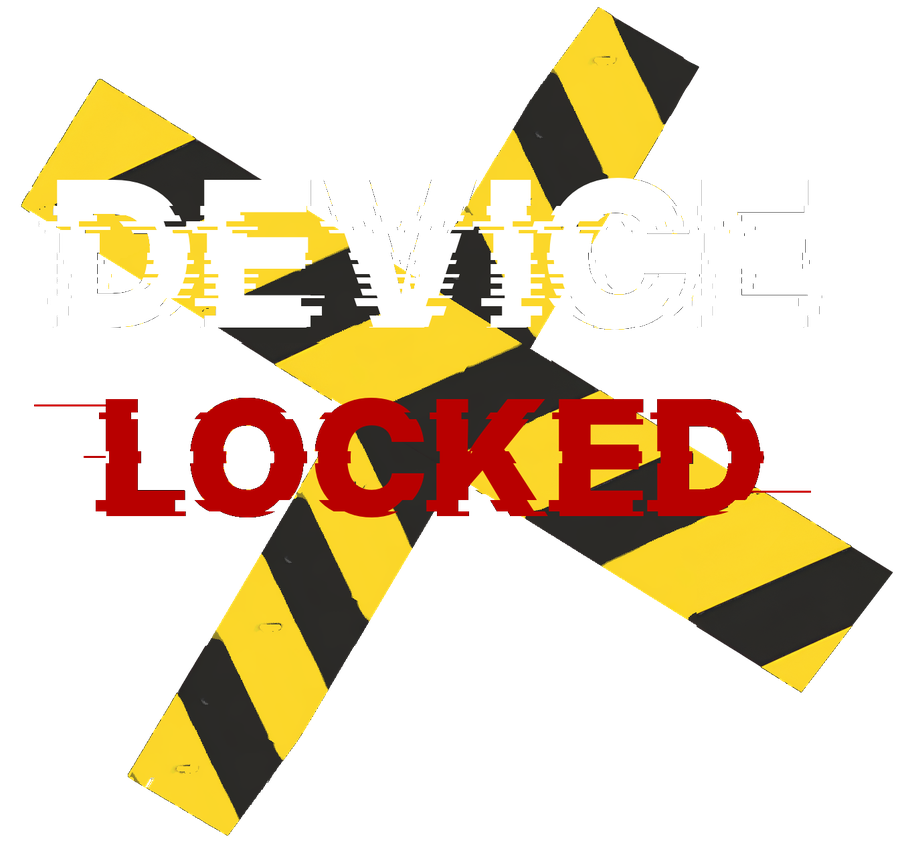
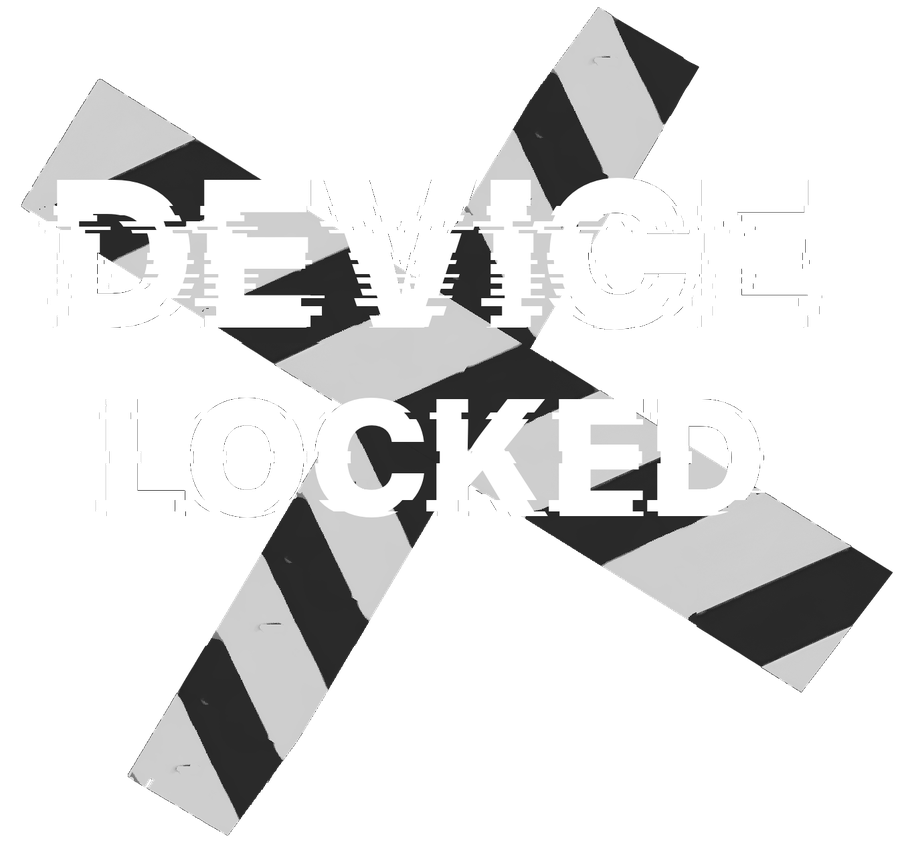
Update #194: the DEVICE LOCKED sign in black and white, no colour
Claude-Session: https://claude.ai/code/session_01XLn6iqczBhEJDyNN2zXKam

diff --git a/CLAUDE.md b/CLAUDE.md
@@ -62,7 +62,7 @@
 - **THE OWNER'S PHONE = PREMIUM · ONLY SYSTEM (owner, 4 Nov 2026: 'Set my phone to premium only system please')**: the official account's plan is always Premium with no payment and no end date (msg-worker subView: `officialPlan`, until 0 - 'Your plan: Premium · Only system · official account', no Cancel plan button); the server set the official account's option to Only system once (meta owner_premium_only), and the app turns Only system on by itself from that (subApplyMode - Android's own 'set as Home app' question needs the owner's tap). **The owner's phone STAYS on Only system - never Second system (owner, 4 Nov 2026: 'I don't want to switch to second system I'm never switching to second system. I want to be on only system')**: the official account's option is always Only system on the server (subView defaults to 'only', sub/mode only ever saves 'only', meta owner_premium_only = 2 re-set it); never switch the owner to Second system or suggest it. **The Home-app question must come from a screen (owner, 4 Nov 2026: 'Nothing is happening')**: Android's 'make Lockedintool your Home app' request (RoleManager ROLE_HOME) only shows when started with startActivityForResult from a visible activity - asked from the background it never appeared, so the phone had Only system's flag on but kept its old launcher. Now OverlayService.askHomeRole sends it through the see-through SystemScreenActivity, and whenever Only system is on but Lockedintool isn't the Home app (systemModeState's 3rd field home / nohome), the Pages ask again once each time they start (sysHomeCheck) and tapping Only system asks straight away.
 - **Two options on the Subscription page (owner's picture)**: two option buttons right under LOCKED IN TOOL (where the status line was; the status line sits under them) - **Second system** (Lockedintool works alongside your phone, apps stay) | **Only system** (SUB_OPTIONS, `.sub-opts`). **No background on them (owner)** and NOTHING is chosen at first (a pre-chosen one was confusing) - the chosen one gets a white outline + ✓ (Only system shows chosen while it's on). **No plan can be bought without choosing an option (owner)**: subBuy says 'Choose Second system or Only system first'. The cursor over one shows what it is (`.sub-opt-tip`, hover only); on a phone tapping one shows its details in the page (subOptionScreen) with ✕ and a ✓ at the bottom - ✓ chooses it and the page goes back to the plans (state.sub.mode / optView). Then you choose a plan: the purchase is made UNDER that option and plan (/v1/sub/buy {plan, mode} -> payments.mode -> on paid subs.mode; the waiting card and 'Your plan: Basic · Only system · paid until' show it). A plan paid under Only system turns it on (subApplyMode, also on every sub refresh). The owner (full access) or someone with an active plan who picks Only system gets the confirm sheet straight away (sysModeAsk). Second system can't be picked while Only system is on (log out / delete account). **Only system = Lockedintool as your system** (sysModeAsk -> confirm sheet -> StoryNative.systemModeSet(true); needs signed in + Lockedintool system actions on) -> **the DASHBOARD is your home screen**: whenever you press home or leave an app you land back on the Dashboard (owner: 'the Dashboard becomes your home screen; you only stay inside Lockedintool - never write acts as your apps'). **YOUR APPS ALL STILL WORK (owner, 28 Oct 2026: 'apps on dashboard for only system are not available please fix that that was never a change' -> chose 'Let apps fully work') - this REPLACES the old 'NO other app at all'**: the Apps button, the Apps screen, app pages, Open <platform>, sharing to apps and recents all work exactly like normal. **NO Apps | Lockedintool switch in Only system (owner, 27 Oct 2026: 'when lockedintool is set to be the only system the feature to be able to switch with the bottom button will not be available'; 4 Nov 2026, after tapping Apps left a frozen picture of the old home screen: 'Thes still the option to switch to apps. But I cant swipe to anywhere')**: tapping the bottom bar does nothing in Only system (addBar: showPicker only when !SystemMode.on); the phone's own gestures there are untouched; apps open from the Dashboard's Apps button and the phone's Recents. LockedintoolHome is BLACK, never see-through, so the old launcher can never show frozen behind it. **Its WINDOW is solid too (owner, 4 Nov 2026, a video: 'See the home screen wallpaper still shows up, I can still see it for a moment. That's a fix that's needed this needs to be smooth. Lockedintool needs to be smooth - fast, no lag, no delays at all')**: LockedintoolHome used the see-through Theme.Story.Clear, so while the phone switched to it (closing an app, Home) the phone's wallpaper showed for a moment; it now has its own opaque Theme.Story.Home (black, windowIsTranslucent false, windowShowWallpaper false, no animation), so the switch shows Lockedintool (the Dashboard drawn inside it), never the wallpaper. **Lockedintool stays in the BACK of the phone's floating windows (owner, 4 Nov 2026, a Samsung pop-up window over plain black: 'Lockedintool is supposed to be in the back')**: the Pages float over every app, so a floating window can only show in front of the Home screen - when the Pages step aside in Only system, OverlayService.snapHome draws a picture of what they showed (homeShot) and LockedintoolHome shows it exactly where the Pages were; a tap on it (outside the floating window) brings the live Dashboard back. **Opening Lockedintool always shows the Dashboard (owner, 4 Nov 2026: 'everytime i open lockedintool that black screen pops up and I need to swipe the bottom button up to see the dashboard')**: on One UI the home-screen app (which draws Recents) flashes up while the phone goes Home to Lockedintool, so recentsShown stepped the Dashboard aside and left LockedintoolHome's black screen. Now when LockedintoolHome really has the screen's focus (onWindowFocusChanged -> OverlayService.homeFocused) within 3 s of such a step aside - or it has no picture to show - and Recents isn't really up, the Dashboard comes straight back (also re-checked 0.5 / 1.2 s after the step aside). Real Recents and floating windows (which take the focus) are untouched. **Floating pop-ups and their bubbles stay ON TOP of the Dashboard (owner, 4 Nov 2026, screenshots: the pink pop-up bubble showed over other apps but vanished on the Dashboard; asked which problem, answered '1')**: an overlay window is drawn above every app window, so in Only system the Pages' window lives INSIDE LockedintoolHome's own window while it is on screen (OverlayService.homeAttach: removed from the overlay and re-added as a TYPE_APPLICATION_PANEL of the Home's window, which is edge to edge) - the phone's pop-ups, bubbles, Recents and gestures then sit above the Dashboard like over any home screen. homeStopped (Home out of sight: an app, Recents) closes Pages that were showing in it (never left 'open' behind an app); setShown moves them back to the overlay first when they must show while the Home is out of sight (Station 3's Rows over an app, a widget); homeGone / Only system off moves them back for good (restackOver puts Profile / Station 3 / the dial pad back above them). Inside Home the phone's Recents just covers them (no step aside). Station 3's own windows (Profile, Messages, the dial pad) are still overlays. **Typing works inside the Home (owner, 4 Nov 2026, editing the Dashboard's quote with no keyboard)**: setTyping used to stop when lowerPages refused (it refuses inside the Home); now Pages shown inside the Home just take the focus and ask for the keyboard, which shows above the Home's window. **No black Home on the way to the Dashboard (owner, 4 Nov 2026: 'everytime this black screen shows up everytime my phone goes to the dashboard it pop ups')**: Pages hidden while they live in the Home stay DRAWN there (alpha 1, not touchable / focusable - setShown; not with Lockedintool security on), homeStopped switches what's kept there to the Dashboard, and the 5-minute age reload is skipped for them (a reload showed the black Home) - so going Home shows the Dashboard at once; homeDetach makes a parked one see-through before it leaves the Home. **Swiping up from an app back to Lockedintool has no separation / delay (owner, 4 Nov 2026: 'when I swipe up to close the app I'm on to lockedintool ... there is a separation, a slight delay and lag')**: when the Home goes out of sight, homeStopped switches the parked Pages to the Dashboard and lets them draw that frame once (then they rest again), and LockedintoolHome.onResume / onNewIntent call OverlayService.homeShowFast first: the parked Dashboard just goes live in the same frame the Home shows - no page redraw, no waiting for a frame, no queue hop (parkedDash; not while reloading, loading, with Lockedintool security, pickers / Create / an app opening - then the normal way). **No black after the swipe (owner's video, 4 Nov 2026: ~0.5 s black before the Dashboard)**: Pages parked inside the Home no longer rest (no WebView.onPause - a resting page needed ~0.5 s to draw again; out of sight they count as hidden anyway), and until the parked page has drawn again (homeWake from LockedintoolHome.onStart -> postVisualStateCallback, 350 ms at most) it stays see-through over the Home's picture, which is now always the DASHBOARD (snapHome only while dashUp). The wallpaper seen during the swipe itself is the phone's own animation (One UI shows the phone's wallpaper while an app shrinks away to a Home app that isn't Samsung's) - Lockedintool never changes the phone's wallpaper; the owner can set it in the phone's settings. **No black while the Pages (re)load inside the Home (owner's video, 4 Nov 2026: after Recents > Close all, Lockedintool's Home was black for ~6 s before the Dashboard)**: inside the Home a Pages window that is loading stays see-through (Pane.loading, set in onPageStarted, cleared by pagesDrawn after onPageFinished's postVisualStateCallback - 1.5 s / 8 s at most), so the Home's picture of Lockedintool shows meanwhile; the picture is also saved on the phone (filesDir/home_shot.jpg + pref home_shot_top) so it's there even right after Android restarted Lockedintool. **The Dashboard comes back by itself EVERY time the Home shows (owner, 4 Nov 2026: 'everytime i close an app ... all I see is a black screen then I have to tap the screen to see the dashboard - that's a fix that is needed')**: homeFocused no longer waits for a 3-s window after a step aside - whenever LockedintoolHome gets the screen's focus with the Pages away (and Recents isn't up, no picker / Create / call, not Lockedintool security), the Dashboard shows; a page that loaded but never reported drawn is shown anyway (web.progress 100). **The Dashboard's bar never stays over an app (owner, 4 Nov 2026, a screenshot: the Messages / Profile bar over the Claude app - 'What's happening?')**: homeFocused only brings the Dashboard back while LockedintoolHome is really visible AND has the screen's focus, and foregroundChanged closes Pages that are 'shown' inside the Home when another app comes to the front (they stay drawn there), so Station 3's Dashboard bar is never held over an app. **After an update you land back on Lockedintool, not the phone's old home screen (owner, same day: 'the lockedintool app close and I was on my phones original apps')**: Android shows the old launcher while Lockedintool is being replaced; Updater.markGoHome remembers (upd_go_home) when Lockedintool's Home was on screen or you installed it yourself, and BootReceiver (MY_PACKAGE_REPLACED) opens Lockedintool's Home again in Only system with the screen on. **LOCKEDINTOOL IS THE PHONE'S HOME APP (owner, 28 Oct 2026: 'lockedintool becomes your home screen thats what i meant ... apps should still work ... I dont exit lockedintool'; then 'the bottom button only works for apps that where opened inside lockedintool ... not working for the whole phone as normal' -> chose 'Make it my real Home app')**: Only system makes Lockedintool the phone's actual HOME app (LockedintoolHome.kt, a transparent HOME activity -> OverlayService.openPages('dashboard'); manifest HOME/DEFAULT intent-filter). So the SYSTEM takes home -> the Dashboard, and the phone's OWN nav (recents, app-switching, the whole phone) works 100% normally - NOT the old overlay trick that fought the phone's nav (that's why the bottom nav only half-worked). **How it's built**: turning Only system on (StoryBridge.systemModeSet(true)) calls askHomeApp() -> Android's own 'set as Home app' prompt (RoleManager.ROLE_HOME on Android 10+, else Settings.ACTION_HOME_SETTINGS); once Lockedintool is the home, homePkg() == our package, so nothing is redirected. **OverlayService.systemEnforce() is now a NO-OP** (the Home app handles home; the old redirect is gone). SystemMode.refuses() always returns false (nothing is blocked). addBar / showPicker / dashBandYPx no longer special-case Only system (the bar + switch + line are there). index.html: sysOn() no longer hides apps anywhere - ONLY stops turning on Only use widgets while Only system is on. The owner switches their normal launcher back any time (Android's Home-app setting), so it is never a trap; Only system turns off by logging out / deleting the account. Always still work: calls (default dialer, telecom / in-call), emergency, SystemUI (lock screen, panel), Android's installer + permission questions, the phone's file / photo pickers, Play services, and whatever Lockedintool itself opens for its own features (every startActivity in OverlayService grants the app it opens - camera, gallery, bank page, documents, permission switches). **Turns off ONLY by logging out or deleting your account (owner)** - litSignedOut / litAccountGone -> systemModeSet(false, 'LOGGED-OUT'); wipeAll clears it; the setup screen's Stop Lockedintool refuses while it's on and its Settings buttons only open while system actions are off. Pref 'story' system_mode. Terms of Service section 'Lockedintool as your system'.
 - **LOCKEDINTOOL'S LOCK SCREEN - ONLY SYSTEM (owner, 5 Nov 2026: 'I want the same pop-up to be my lock screen, so when Lockedintool is on Only system, that means when you turn on your phone, you will see your dashboard or whatever you have set, and then you would see the unlock phone pop up, and then you have to unlock it, and then you can start using your phone. It just shows Lockedintool, no time, no nothing - your phone always shows the time at the top'; voice typing writes 'logged into' / 'log in tool' for Lockedintool)**: LockDashActivity (showWhenLocked, own task, not in Recents) - when the screen comes on locked (OverlayService screenOn receiver / the Always On Display ending -> lockDashCheck, 0.35 s later) it shows your Dashboard (the Home's exact screen copy) over the phone's lock screen and at once asks the PHONE for its own unlock (KeyguardManager.requestDismissKeyguard - its fingerprint / face / PIN; Lockedintool never checks or replaces the phone's lock). Unlocked -> it closes and you're where you were (your app, or the Dashboard); that unlock counts for Lockedintool security too. Before the unlock nothing on it works - a tap asks again. **It SAYS it's locked (owner, same day: 'A locked screen should say that it is locked because I'm confused, I think it's unlocked')**: a dark rounded card in the middle - the lock icon, 'Locked', 'Tap to unlock' (LockDashActivity.lockCard, like Lockedintool security's lock card). **Opened the way Android explicitly allows from the background (#190 - owner's screenshot, 5 Nov 2026: the phone's own lock screen showed instead)**: a PendingIntent with MODE_BACKGROUND_ACTIVITY_START_ALLOWED (like the Always On Display), a plain start 0.7 s later if it still isn't up, and a problem report 'Lockedintool's lock screen couldn't open' if it never does. NEVER over the Always On Display, a call (ringing / on), the camera or any app that came up over the lock screen since the screen came on (StoryAccessibilityService.frontAt), Create, or Only use widgets. SAFETY: Back, an error or a refused request closes it and leaves the phone's own lock screen (not shown again until the screen next goes off) - the owner can never be locked out.
-  **WHAT THE LOCK SCREEN SHOWS IS WHERE YOU LAND (owner, 5 Nov 2026: 'let's not make it fake ... Whatever is showing at the background of the unlock or anything that's showing where Lockedintool is, that's where I will be. If I unlock my phone, I was busy with an app, doesn't matter. What was showing in my lock screen was the dashboard, so my phone will go to the dashboard ... let's say I make the [Claude] page my home screen, then when I open it, it will show me that tab to open [Claude] ... for me to be able to go to an app that I was using, I need to swipe up'; 'Lockedintool should be fast ... like a competition between your phone and Lockedintool, you won't see any difference, but Lockedintool is actually way better ... this is not a phone anymore, this is a device')**: (1) the lock screen's (and the Home's) picture is your HOME SCREEN (Layouts > Home Screen) - the page tells the app when it's on screen (homeTellNative -> StoryNative.homeShown -> homeUp) and the exact screen copy is taken then; (2) unlocking from Lockedintool's lock screen ALWAYS lands on Lockedintool's Home -> your Home Screen (LockDashActivity onDismissSucceeded starts LockedintoolHome; systemShowPages / homeStopped now show storyShow(null) = your Home Screen, no longer always 'dashboard'); the app you were using stays in the phone's Recents. (Only Back on the lock screen leaves the phone's own lock screen, which returns to your app as normal.) **It's put up while the screen goes OFF (owner, 5 Nov 2026: 'I can still see my lockscreen still' - started at screen-on, the phone's own lock screen showed first)**: OverlayService.onScreenOff -> lockDashPrepare (before the Always On Display, so it sits under it); it asks for the unlock once the screen is on (screenOnNow) or the Always On Display ends (onResume); if the phone didn't actually lock (screen off only briefly) it just closes and you stay where you were. The 0.35 s check at screen-on stays as a backup. The card's words set its width (#191 fixed 'Loc' / 'Tap to'). **THE SIGN IS LOCKEDINTOOL'S LOGO READING 'DEVICE LOCKED' (#192 - owner, 5 Nov 2026: 'I want it to be lockedintool logo, but like in that transparent effect, but the words lockedintool be device locked, but the stick men and the stairs in this logo and the tiny words there should be available' - the owner meant they should NOT be there, see below)**: device_locked.png (root, copied to res/drawable-nodpi by android.yml) = the owner's permanent logo with the big words LOCKED IN TOOL replaced by DEVICE (white) / LOCKED (red) in the same glitch style; the tape X kept (rebuilt where the old words were) - **NO stick men, stairs, path line or small words (owner, same day, circling them: 'No these I don't want, the stick man and the tiny words no')**; its black background is see-through, so it sits over your screen. 82% of the screen's width, centred, 'Tap to unlock' under it (lockSign; the old card lockCard stays unused).
+  **WHAT THE LOCK SCREEN SHOWS IS WHERE YOU LAND (owner, 5 Nov 2026: 'let's not make it fake ... Whatever is showing at the background of the unlock or anything that's showing where Lockedintool is, that's where I will be. If I unlock my phone, I was busy with an app, doesn't matter. What was showing in my lock screen was the dashboard, so my phone will go to the dashboard ... let's say I make the [Claude] page my home screen, then when I open it, it will show me that tab to open [Claude] ... for me to be able to go to an app that I was using, I need to swipe up'; 'Lockedintool should be fast ... like a competition between your phone and Lockedintool, you won't see any difference, but Lockedintool is actually way better ... this is not a phone anymore, this is a device')**: (1) the lock screen's (and the Home's) picture is your HOME SCREEN (Layouts > Home Screen) - the page tells the app when it's on screen (homeTellNative -> StoryNative.homeShown -> homeUp) and the exact screen copy is taken then; (2) unlocking from Lockedintool's lock screen ALWAYS lands on Lockedintool's Home -> your Home Screen (LockDashActivity onDismissSucceeded starts LockedintoolHome; systemShowPages / homeStopped now show storyShow(null) = your Home Screen, no longer always 'dashboard'); the app you were using stays in the phone's Recents. (Only Back on the lock screen leaves the phone's own lock screen, which returns to your app as normal.) **It's put up while the screen goes OFF (owner, 5 Nov 2026: 'I can still see my lockscreen still' - started at screen-on, the phone's own lock screen showed first)**: OverlayService.onScreenOff -> lockDashPrepare (before the Always On Display, so it sits under it); it asks for the unlock once the screen is on (screenOnNow) or the Always On Display ends (onResume); if the phone didn't actually lock (screen off only briefly) it just closes and you stay where you were. The 0.35 s check at screen-on stays as a backup. The card's words set its width (#191 fixed 'Loc' / 'Tap to'). **THE SIGN IS LOCKEDINTOOL'S LOGO READING 'DEVICE LOCKED' (#192 - owner, 5 Nov 2026: 'I want it to be lockedintool logo, but like in that transparent effect, but the words lockedintool be device locked, but the stick men and the stairs in this logo and the tiny words there should be available' - the owner meant they should NOT be there, see below)**: device_locked.png (root, copied to res/drawable-nodpi by android.yml) = the owner's permanent logo with the big words LOCKED IN TOOL replaced by DEVICE / LOCKED in the same glitch style, **ALL IN BLACK AND WHITE - NO COLOUR (owner, same day: 'Yeah but no color' / 'No color please' - chose the black-and-white version: grey tape, white words)**; the tape X kept (rebuilt where the old words were) - **NO stick men, stairs, path line or small words (owner, same day, circling them: 'No these I don't want, the stick man and the tiny words no')**; its black background is see-through, so it sits over your screen. 82% of the screen's width, centred, 'Tap to unlock' under it (lockSign; the old card lockCard stays unused).
 - **Only system carries a note (owner, 3 Nov 2026: 'Under plans / System only attached a text (like just a texts slaps on that option) Saying / Best experience if you are using two or more phones (if set up on a second phone)')**: the Only system option button on the Subscription page shows, stuck on it under its name, in gold: 'Best experience when you use two or more phones (for example, set up on a second phone)' (SUB_OPTIONS only.note -> `.sub-opt-note`); the same line shows on its details page and on the website's Only system card. **The owner's last two additions (owner, 3 Nov 2026: 'Once we get these done then lockedintool is done. Only fixes and what's missing')**: (1) Important data saved - card details, (2) this note. After them: ONLY fixes and what's missing - nothing new.
 - **(Station 3 itself is fine as it is - owner: 'not the Station 3 button, it works how it's supposed to'.)**
 - **Lockedintool security (owner, Oct 2026 - Settings > SECURITY)**: two choices - **Phone's security** (default; the owner's words: 'default system - original phone's security ... I can access Lockedintool anywhere, it just uses my phone's security like if I unlock my phone') | **Lockedintool security** ('every time I try using anything from Lockedintool I will have to unlock it'). Built (Security.kt, pref 'story' sec_mode; securitySettingsHTML / secModeSet): Lockedintool security unlocks with the phone's OWN fingerprint / face / PIN (IdentityActivity, title 'Unlock Lockedintool'; a phone with no screen lock can't turn it on - 'Set a screen lock ... first'). Every way INTO Lockedintool asks first (OverlayService secGate: the Pages - Apps | Pages switch, a widget, Only system's Dashboard, an app page's strip - and Station 3's window: Messages, Profile, Updates, Create, Call history), then opens; a live widget asks on its first tap. It locks again when you leave Lockedintool (the Pages and Station 3's window both closed - hideOne) and when the screen goes off; **Unlocking the phone straight into Lockedintool counts as Lockedintool's unlock (owner, 4 Nov 2026: 'that security option also takes time to show up ... everything should be instant' -> chose 'Count phone unlock')**: within 4 s of the phone's own unlock (fingerprint / face / PIN - the same lock Lockedintool security uses; secure phones only) secPrompt opens Lockedintool at once with no second prompt; opening Lockedintool any other time still asks. (Replaces: 'Lockedintool already on screen when you unlock the phone asks once'.) Cancelled = the window shows the lock (`.sec-cover`: 'Lockedintool is locked' + Unlock; storySecLock). On the lock screen the 'unlock' IS the phone's own unlock (its PIN page), and Station 3's bar steps away while any prompt is up (never over its buttons). Calls (incoming / group) always show and can be answered; the dial pad's phone calls always work; Station 3's bar itself isn't locked. Phone's security = none of this. **The owner is happy with it as it is (5 Nov 2026: 'No the security is perfect')** - asking every time you come back from an app, the 'Lockedintool is locked' screen with Unlock after going back from the prompt: keep it exactly so. **The 'Lockedintool is locked' screen shows YOUR background (owner, 5 Nov 2026: 'the black background with unlock - can it be the user's background that's on their home screen, not a black background')**: the Dashboard's background picture (Layouts > Dashboard > Background picture) with a light shade (secCoverBg; Station 3's window loads just that picture, only when the lock shows); no picture set = black as before (Android doesn't let apps read the phone's own wallpaper). **ON THE PAGES IT'S SEE-THROUGH (owner, same day: 'Or transparent if nothing is set. I like it to show lockedintool always, like your home screen always, not just a background with unlock')**: on the Pages the lock is transparent (`.sec-see`) - your Lockedintool home screen shows with only the lock card (dark, rounded) and Unlock on top; the cover still takes every touch. Station 3's window (Messages, Profile...) keeps the background picture / black so nobody can read your chats while it's locked. **IT MUST BE THE SAME EVERY TIME (owner, 5 Nov 2026: 'the way to unlock lockedintool needs to be consistent - sometimes it's a black screen, sometimes it's a dashboard with the prompt, sometimes a black screen with the prompt')**: coming back = the phone's prompt OVER THE DASHBOARD (the Home's exact screen copy) -> went back without unlocking = the black 'Lockedintool is locked' + Unlock -> Unlock = the prompt again. A black screen behind the prompt only happened while no exact copy existed yet (after each update that day, 1.344+ ignores the old drawn picture); once the Dashboard has been seen it's kept on the phone (home_shot.jpg + home_shot_exact), restarts included. If black behind the prompt is ever reported again, find where the picture is missing. (A screen recording shows the phone's own unlock prompt as black - Android hides it in recordings; that black is not a fault.)

diff --git a/UPDATES.md b/UPDATES.md
@@ -198,4 +198,5 @@ commits, pushed as a new update) - nothing else changes.
 | 190 | 2026-11-05 | Lockedintool's lock screen opens the way Android allows on the lock screen (the phone's own lock screen showed instead), and reports it if it ever can't | 338c81b |
 | 191 | 2026-11-05 | Lockedintool's lock screen is ready before the screen comes on (no glimpse of the phone's own lock screen), the Locked card shows its full words, and unlocking always lands on your Home Screen (Layouts > Home Screen) - your apps stay in Recents | b84e08e |
 | 192 | 2026-11-05 | Lockedintool's lock screen sign is now your logo reading DEVICE LOCKED (tape, stick men, stairs and small words kept), see-through over your screen | d54f2fe |
-| 193 | 2026-11-05 | The DEVICE LOCKED logo without the stick men, stairs, path line and small words - just the tape X and DEVICE LOCKED | (this) |
+| 193 | 2026-11-05 | The DEVICE LOCKED logo without the stick men, stairs, path line and small words - just the tape X and DEVICE LOCKED | 9622f77 |
+| 194 | 2026-11-05 | The DEVICE LOCKED sign in black and white - no colour (the owner's choice) | (this) |
